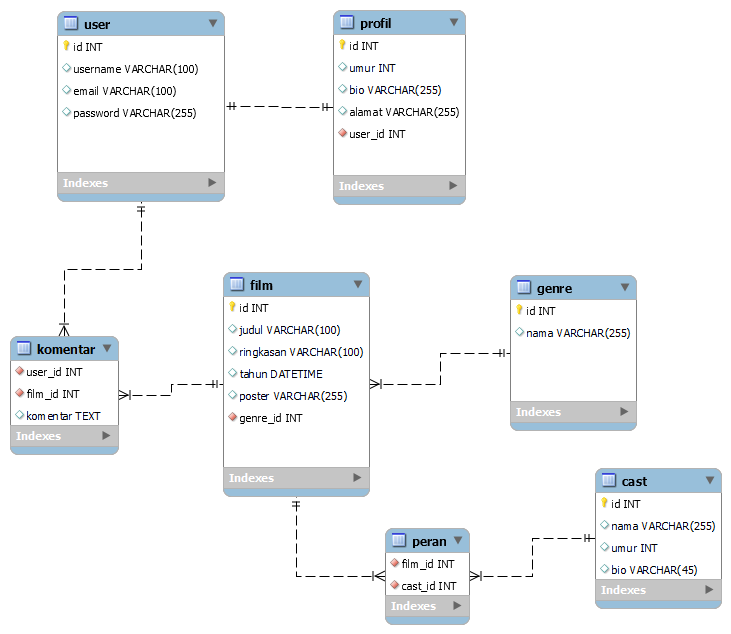
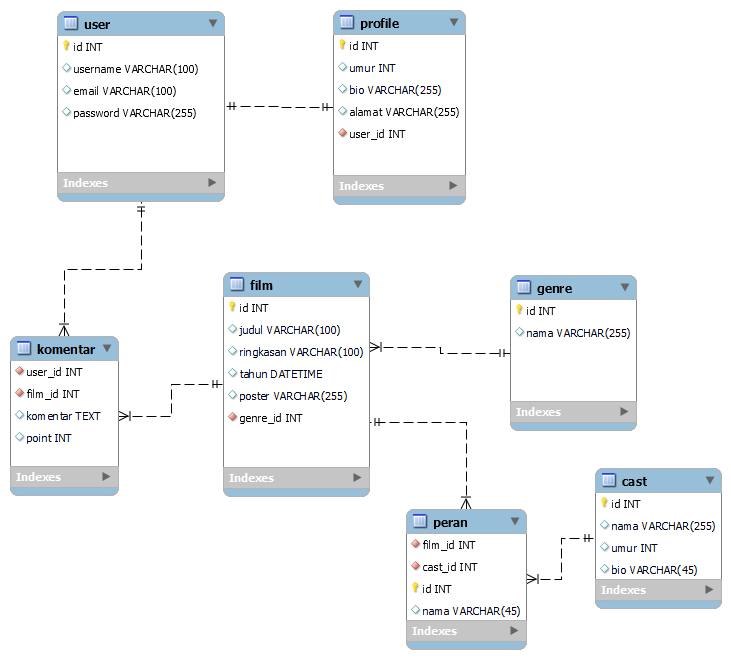
Tugas 14 Menambahkan Migration

diff --git a/Tugas 13 - Blade Template/database/migrations/2022_02_24_124106_create_komentar_table.php b/Tugas 13 - Blade Template/database/migrations/2022_02_24_124106_create_komentar_table.php
@@ -1,0 +1,37 @@
+<?php
+
+use Illuminate\Database\Migrations\Migration;
+use Illuminate\Database\Schema\Blueprint;
+use Illuminate\Support\Facades\Schema;
+
+class CreateKomentarTable extends Migration
+{
+    /**
+     * Run the migrations.
+     *
+     * @return void
+     */
+    public function up()
+    {
+        Schema::create('komentar', function (Blueprint $table) {
+            $table->bigIncrements('id');
+            $table->unsignedBigInteger('user_id');
+            $table->foreign('user_id')->references('id')->on('users');
+            $table->unsignedBigInteger('film_id');
+            $table->foreign('film_id')->references('id')->on('film');
+            $table->text('content');
+            $table->bigInteger('point');
+            $table->timestamps();
+        });
+    }
+
+    /**
+     * Reverse the migrations.
+     *
+     * @return void
+     */
+    public function down()
+    {
+        Schema::dropIfExists('komentar');
+    }
+}

diff --git a/Tugas 13 - Blade Template/database/migrations/2022_02_24_112555_create_film_table.php b/Tugas 13 - Blade Template/database/migrations/2022_02_24_112555_create_film_table.php
@@ -1,0 +1,37 @@
+<?php
+
+use Illuminate\Database\Migrations\Migration;
+use Illuminate\Database\Schema\Blueprint;
+use Illuminate\Support\Facades\Schema;
+
+class CreateFilmTable extends Migration
+{
+    /**
+     * Run the migrations.
+     *
+     * @return void
+     */
+    public function up()
+    {
+        Schema::create('film', function (Blueprint $table) {
+            $table->bigIncrements('id');
+            $table->string('judul',45);
+            $table->text('ringkasan');
+            $table->bigInteger('tahun');
+            $table->string('poster');
+            $table->unsignedBigInteger('genre_id');
+            $table->foreign('genre_id')->references('id')->on('genre');
+            $table->timestamps();
+        });
+    }
+
+    /**
+     * Reverse the migrations.
+     *
+     * @return void
+     */
+    public function down()
+    {
+        Schema::dropIfExists('film');
+    }
+}

diff --git a/Tugas 13 - Blade Template/database/migrations/2022_02_24_125258_create_peran_table.php b/Tugas 13 - Blade Template/database/migrations/2022_02_24_125258_create_peran_table.php
@@ -1,0 +1,35 @@
+<?php
+
+use Illuminate\Database\Migrations\Migration;
+use Illuminate\Database\Schema\Blueprint;
+use Illuminate\Support\Facades\Schema;
+
+class CreatePeranTable extends Migration
+{
+    /**
+     * Run the migrations.
+     *
+     * @return void
+     */
+    public function up()
+    {
+        Schema::create('peran', function (Blueprint $table) {
+            $table->bigIncrements('id');
+            $table->unsignedBigInteger('film_id');
+            $table->foreign('film_id')->references('id')->on('film');
+            $table->unsignedBigInteger('cast_id');
+            $table->foreign('cast_id')->references('id')->on('cast');
+            $table->timestamps();
+        });
+    }
+
+    /**
+     * Reverse the migrations.
+     *
+     * @return void
+     */
+    public function down()
+    {
+        Schema::dropIfExists('peran');
+    }
+}

diff --git a/Tugas 13 - Blade Template/database/migrations/2022_02_24_112638_create_profile_table.php b/Tugas 13 - Blade Template/database/migrations/2022_02_24_112638_create_profile_table.php
@@ -1,0 +1,36 @@
+<?php
+
+use Illuminate\Database\Migrations\Migration;
+use Illuminate\Database\Schema\Blueprint;
+use Illuminate\Support\Facades\Schema;
+
+class CreateProfileTable extends Migration
+{
+    /**
+     * Run the migrations.
+     *
+     * @return void
+     */
+    public function up()
+    {
+        Schema::create('profile', function (Blueprint $table) {
+            $table->bigIncrements('id');
+            $table->bigInteger('umur');
+            $table->text('bio');
+            $table->text('alamat');
+            $table->unsignedBigInteger('user_id');
+            $table->foreign('user_id')->references('id')->on('users');
+            $table->timestamps();
+        });
+    }
+
+    /**
+     * Reverse the migrations.
+     *
+     * @return void
+     */
+    public function down()
+    {
+        Schema::dropIfExists('profile');
+    }
+}

diff --git a/Tugas 13 - Blade Template/database/migrations/2022_02_24_124753_create_cast_table.php b/Tugas 13 - Blade Template/database/migrations/2022_02_24_124753_create_cast_table.php
@@ -1,0 +1,34 @@
+<?php
+
+use Illuminate\Database\Migrations\Migration;
+use Illuminate\Database\Schema\Blueprint;
+use Illuminate\Support\Facades\Schema;
+
+class CreateCastTable extends Migration
+{
+    /**
+     * Run the migrations.
+     *
+     * @return void
+     */
+    public function up()
+    {
+        Schema::create('cast', function (Blueprint $table) {
+            $table->bigIncrements('id');
+            $table->string('nama',45);
+            $table->bigInteger('umur');
+            $table->text('bio');
+            $table->timestamps();
+        });
+    }
+
+    /**
+     * Reverse the migrations.
+     *
+     * @return void
+     */
+    public function down()
+    {
+        Schema::dropIfExists('cast');
+    }
+}

diff --git a/Tugas 13 - Blade Template/database/migrations/2022_02_24_111514_create_genre_table.php b/Tugas 13 - Blade Template/database/migrations/2022_02_24_111514_create_genre_table.php
@@ -1,0 +1,32 @@
+<?php
+
+use Illuminate\Database\Migrations\Migration;
+use Illuminate\Database\Schema\Blueprint;
+use Illuminate\Support\Facades\Schema;
+
+class CreateGenreTable extends Migration
+{
+    /**
+     * Run the migrations.
+     *
+     * @return void
+     */
+    public function up()
+    {
+        Schema::create('genre', function (Blueprint $table) {
+            $table->bigIncrements('id');
+            $table->string('nama');
+            $table->timestamps();
+        });
+    }
+
+    /**
+     * Reverse the migrations.
+     *
+     * @return void
+     */
+    public function down()
+    {
+        Schema::dropIfExists('genre');
+    }
+}
